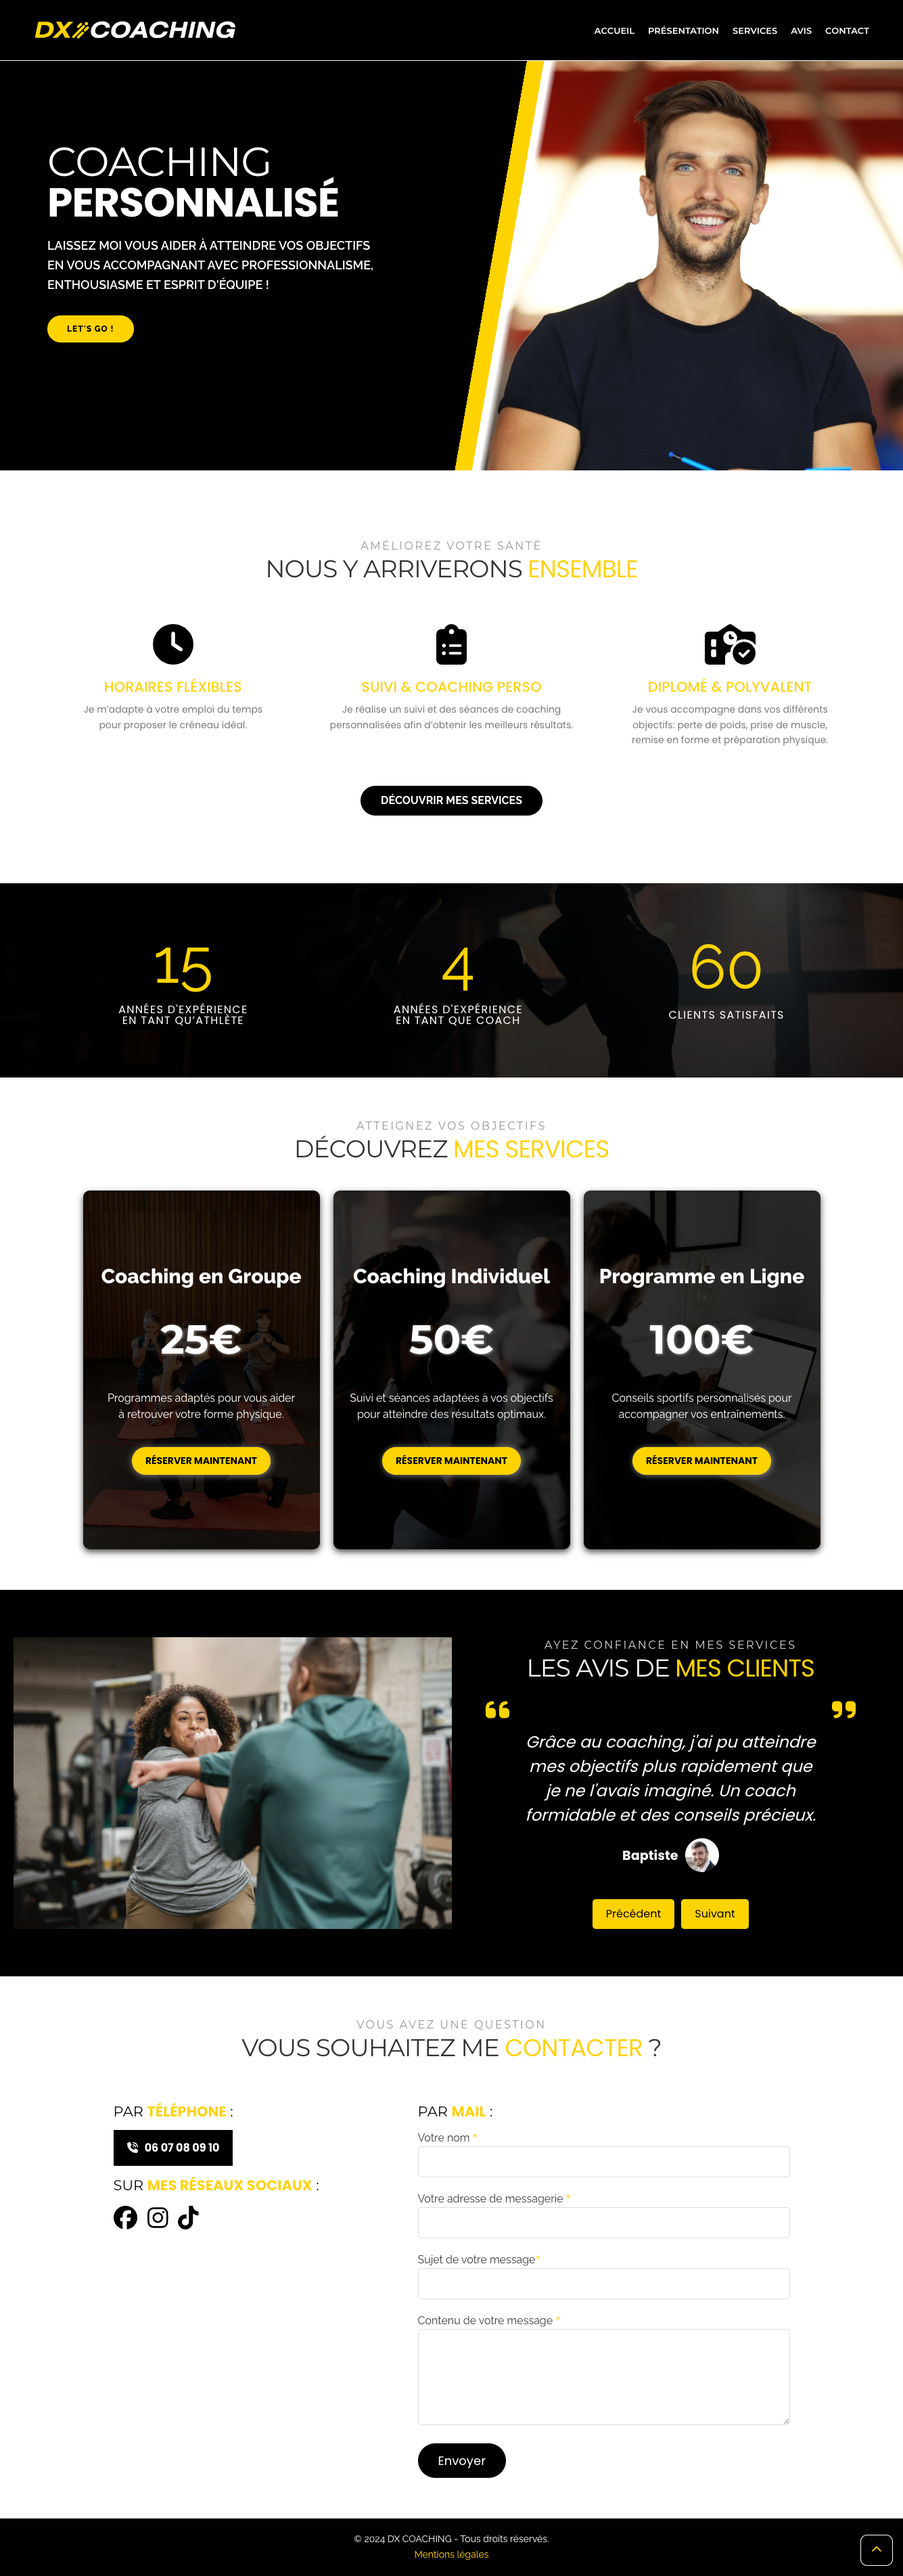
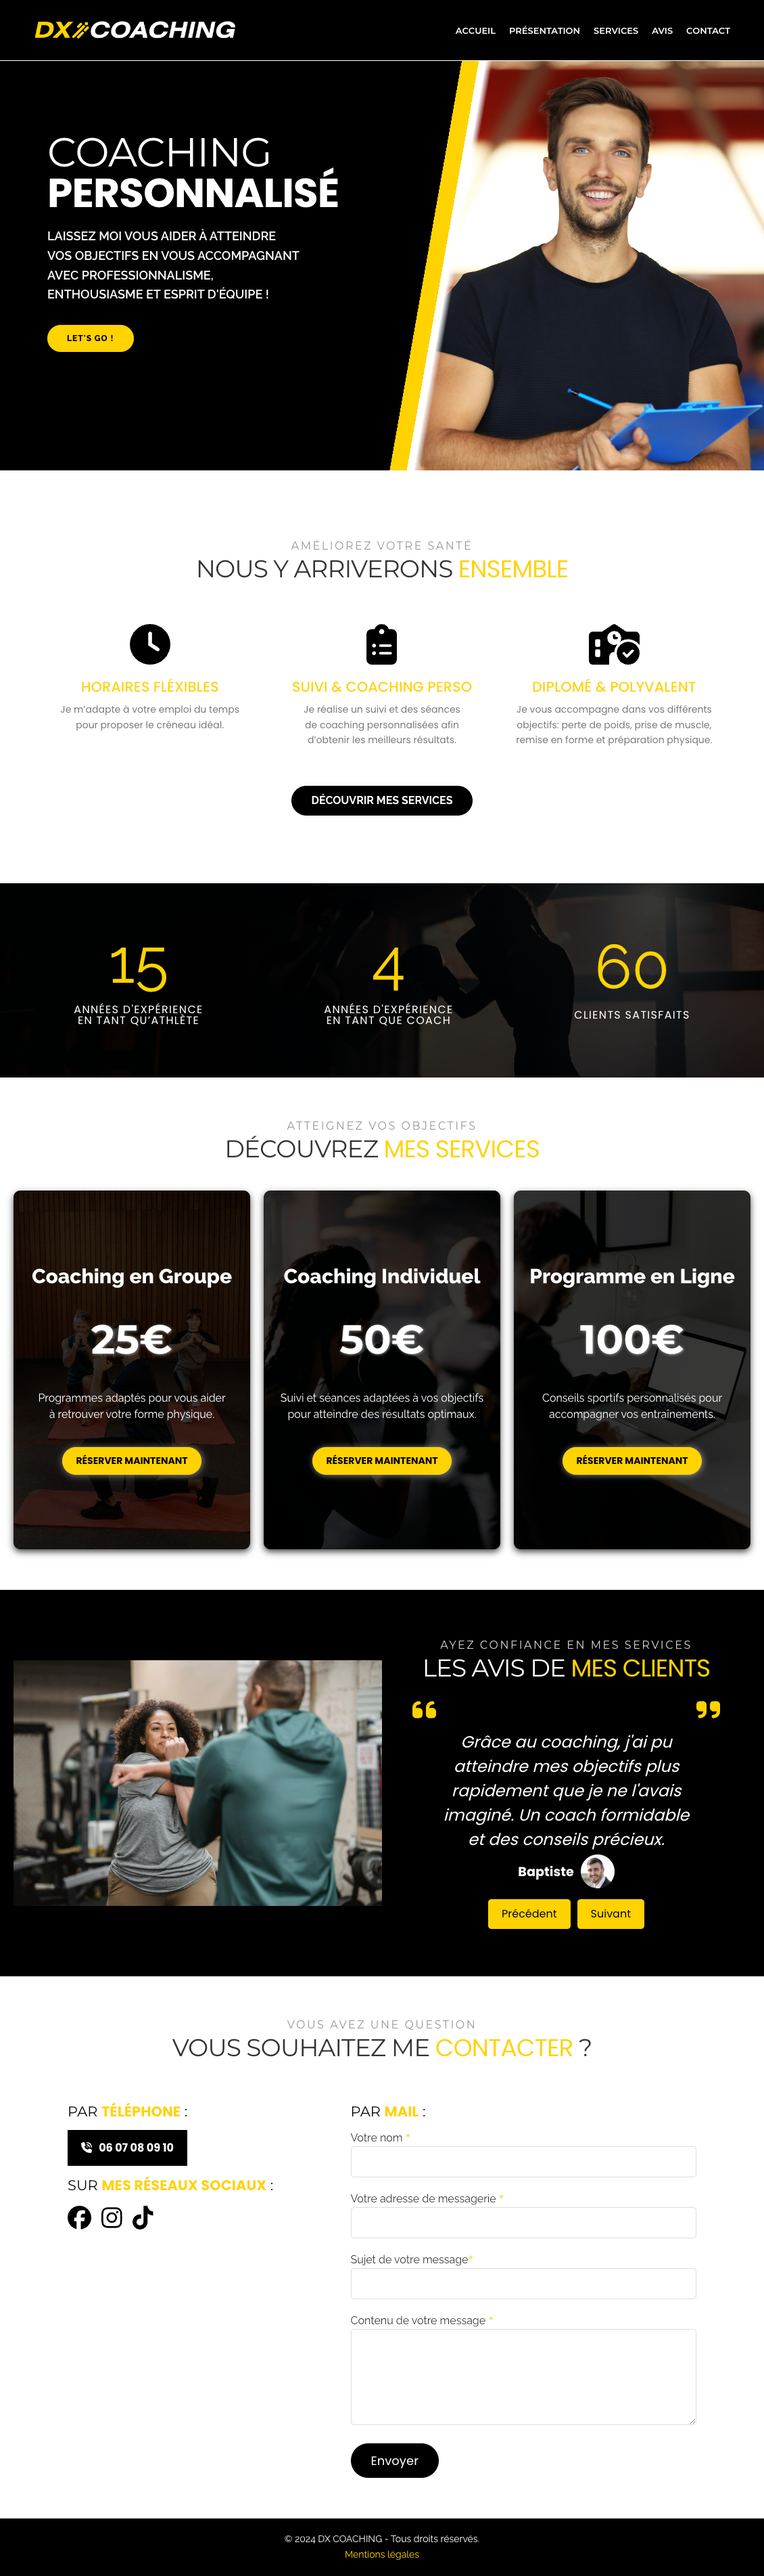
update

diff --git a/src/pages/sitezy/sitezy.scss b/src/pages/sitezy/sitezy.scss
@@ -21,7 +21,7 @@
             display: flex;
             justify-content: space-between;
             width: 100%;
-            max-width: 1300px;
+            max-width: 1150px;
             align-items: center;
         }
     
@@ -174,12 +174,12 @@
         align-items: center;
         justify-content: center;
         height: 100vh;
-        padding: 50px 50px 0;
+        padding: 50px 0 0 40px;
         position: relative;
         
         .header__content {
             display: flex;
-            max-width: 1300px;
+            max-width: 1200px;
             width: 100%;
             align-items: center;
             justify-content: space-between;
@@ -237,6 +237,12 @@
                 font-size: 16px;
                 margin: 5px 0;
             }
+        }
+        .header__image {
+            video {
+                width: 400px;
+            }
+            
         }
 
         .header__chevron {
@@ -548,7 +554,7 @@
           .right {
             width: 30%;
             text-align: left;
-            padding: 50px 0;
+            padding: 40px 0;
             font-size: 16px;
 
             p {
@@ -704,6 +710,10 @@
             cursor: pointer; /* Change le curseur pour indiquer que ce sont des boutons cliquables */
             padding: 10px 0; /* Ajoute du padding pour une meilleure apparence */
             overflow: hidden; /* Assure que rien ne déborde du bouton */
+            opacity: 0.75;
+        }
+        button.active {
+            opacity: 1;
         }
     
         /* Pseudo-élément pour la bordure dégradée */
@@ -934,12 +944,12 @@
         box-shadow: 0 0 black;
         }
         #design .slick-next {
-        right: 100px;
+        right: 45px;
         top: 5%;
         opacity: 0.75;
         }
         #design .slick-slider .slick-prev {
-        left: 100px;
+        left: 45px;
         top: 5%;
         opacity: 0.75;
         }
@@ -1116,9 +1126,28 @@
         }
     }
     
-    @media (max-width:804px){
+    /* PRICING RESPONSIVE */
+    @media (max-width:1100px){
+        #pricing {
+            padding: 40px 0;
+            .grid {
+                padding: 20px 0;
+            }
+            .grid .box {
+                min-width: 280px;
+                width: 280px;
+                max-width: 300px;
+                padding: 10px 20px;
+            }
+        } 
+
+    }
+    @media (max-width:900px){
         #pricing .grid {
-        gap: 50px;
+            flex-direction: column;
+            gap: 50px;
+            justify-content: center;
+            align-items: center;
         }
         #pricing .details {
         width: 100%;
@@ -1331,11 +1360,9 @@
             text-align: left;
             transition: height 0.5s;
             font-style: normal;
-            -webkit-line-clamp: 4;
             padding-right: 0;
             &.expanded {
                 height: fit-content;
-                -webkit-line-clamp: unset;
             }
         }
         .read-more-container {
@@ -1435,6 +1462,7 @@
                     font-weight: bold;
                     color: #fff;// Couleur pour faire ressortir le pourcentage
                     margin-right: 0;
+                    filter: drop-shadow(2px 4px 8px rgb(255, 255, 255, 0.2));
                 }
             
                 .description {

diff --git a/src/pages/sitezy/sitezy-components/CarouselPremium.js b/src/pages/sitezy/sitezy-components/CarouselPremium.js
@@ -73,7 +73,7 @@ const CarouselPremium = () => {
         
         <div className="details">
           <h2 className="carousel-title premium-title">Choisissez votre design</h2>
-          <p className="premium-subtitle">Chacun de nos design est unique, chaque section est personnalisable afin de représenter vos valeurs et votre image de marque.</p>
+          <p className="premium-subtitle">Chacun de nos design est unique, chaque section est personnalisable afin de représenter au mieux vos valeurs et votre image de marque.</p>
           
           {/* Boutons de filtre */}
           <div className="filter-buttons">
@@ -109,7 +109,7 @@ const CarouselPremium = () => {
                       className={design.isReserved ? 'demo-button disabled-button' : 'demo-button'}
                       disabled={design.isReserved}
                     >
-                      Voir la démo&nbsp;<FontAwesomeIcon icon={faEye} />
+                      Voir&nbsp;la&nbsp;démo&nbsp;<FontAwesomeIcon icon={faEye} />
                     </button>
 
                     <button 
@@ -117,7 +117,7 @@ const CarouselPremium = () => {
                       className={design.isReserved ? 'reserve-button disabled-button' : 'reserve-button'}
                       disabled={design.isReserved}
                     >
-                      {design.isReserved ? 'Déjà réservé' : 'Réserver ce design'}&nbsp;<FontAwesomeIcon icon={faCartShopping} />
+                      {design.isReserved ? 'Déjà réservé' : 'Réserver\u00A0ce\u00A0design'}&nbsp;<FontAwesomeIcon icon={faCartShopping} />
                     </button>
                   </div>
                 )}

diff --git a/src/pages/demo/standard-5/standard-5.scss b/src/pages/demo/standard-5/standard-5.scss
@@ -171,7 +171,7 @@
     .about {
         display: flex;
         width: 100%;
-        height: 500px; // La section prend toute la hauteur de la fenêtre
+        height: 550px; // La section prend toute la hauteur de la fenêtre
         overflow: hidden;
         background-color: #fff;
       
@@ -246,7 +246,7 @@
 
     /* SERVICES SECTION */
     .services {
-        padding: 100px 0;
+        padding: 150px 0;
         background: url(./standard-5-images/bg222.png);
         background-position: center;
         background-size: cover;
@@ -259,7 +259,7 @@
             display: flex;
             align-items: center;
             justify-content: center;
-            margin-bottom: 30px;
+            margin-bottom: 50px;
             position: relative;
             h2 {
                 color: #fff;
@@ -355,7 +355,7 @@
         width: 100%; // Ajustez la largeur pour qu'elle soit centrée
         margin: 0px auto; // Centre le carrousel sur la page
         background-color: #fff;
-        padding: 50px 0;
+        padding: 100px 0;
 
         &__title {
             display: flex;
@@ -491,7 +491,7 @@
         display: flex;
         justify-content: space-between;
         align-items: center;
-        padding: 100px 50px;
+        padding: 150px 50px;
         background: url(./standard-5-images/bg222.png);
         background-position: center;
         background-size: cover;

diff --git a/src/pages/sitezy/sitezy-components/Testimonials.js b/src/pages/sitezy/sitezy-components/Testimonials.js
@@ -58,7 +58,7 @@ const testimonials = [
         name: "IRH By ACT-ON GROUP",
         date: "Le 10 Août 2024",
         stars: "★★★★★",
-        comment: "Nous avons fait appel à l'agence Simplement pour la création de 2 sites internet et nous sommes très satisfaits du résultat ! Équipe au top, réactive, flexible et à l'écoute. Un vrai bonheur de travailler avec cette agence ! Les tarifs proposés sont plus que compétitifs et le service après-vente est parfait. Je recommande plus que vivement !"
+        comment: "Nous avons fait appel à l'agence Simplement pour la création de 2 sites internet et nous sommes très satisfaits du résultat ! Équipe au top, réactive, flexible et à l'écoute. Un vrai bonheur de travailler avec cette agence ! Les tarifs proposés sont plus que compétitifs et le service après-vente est parfait !"
     },
     {
         logo: "/images/google-logo.png",
@@ -70,7 +70,7 @@ const testimonials = [
     }
 ];
 
-const MAX_LENGTH = 111; // Limite de caractères pour les commentaires longs
+const MAX_LENGTH = 140; // Limite de caractères pour les commentaires longs
 
 const Testimonials = () => {
     const sliderRef = useRef(null);

diff --git a/src/pages/sitezy/sitezy-components/Hausse.js b/src/pages/sitezy/sitezy-components/Hausse.js
@@ -33,7 +33,7 @@ const Hausse = () => {
     if (isVisible && !hasAnimated) {
       let start = 0;
       const end = 79;
-      const duration = 5000;
+      const duration = 4000;
       const increment = end / (duration / 16);
       
       const animate = () => {
@@ -60,7 +60,7 @@ const Hausse = () => {
             En moyenne, nos clients ont connu une hausse de 79% de leur chiffre d'affaire après la création de leur site internet. Cette hausse s'explique en partie par l'augmentation de leur visibilité, la clarification de leurs offres ainsi que la professionalisation de leur entreprise.
           </p>
           <button className="cta-button" onClick={() => window.location.href = "#"}>
-            Je veux mon site
+            Je veux moi aussi un site internet !
           </button>
         </div>
 

diff --git a/src/pages/sitezy/sitezy-components/Last.js b/src/pages/sitezy/sitezy-components/Last.js
@@ -15,7 +15,7 @@ const Last = () => {
       <div className="last-section">
         <div className="details">
           <h2 className="last-title">Notre dernier design 🔥</h2>
-          <p className="last-subtitle">Voici notre dernière création, réservez ce design avant qu'il ne soit plus disponible !</p>
+          <p className="last-subtitle">Voici notre dernière création, réservez rapidement ce design avant qu'il ne soit plus disponible !</p>
         </div>
 
         <div className="last-item">

diff --git a/src/pages/sitezy/sitezy-components/Presentation.js b/src/pages/sitezy/sitezy-components/Presentation.js
@@ -16,7 +16,7 @@ const Presentation = () => {
         {
             title: "Rendu final connu à l'avance",
             image: avance, // Remplacez par l'URL de votre illustration
-            description: "Évitez les mauvaises surprises et les déceptions en choisissant vous-même votre design préféré."
+            description: "Évitez les mauvaises surprises en choisissant vous-même votre design préféré."
         },
         {
             title: "Design tendance",
